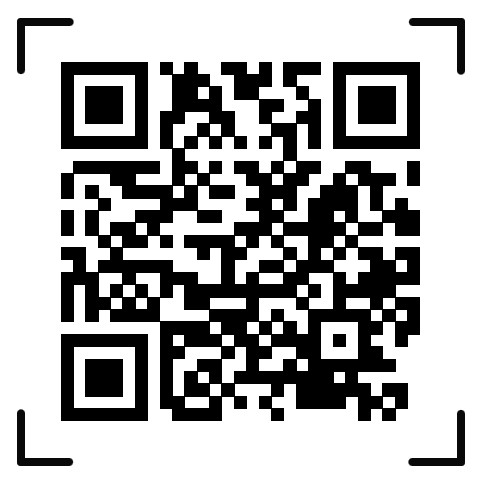
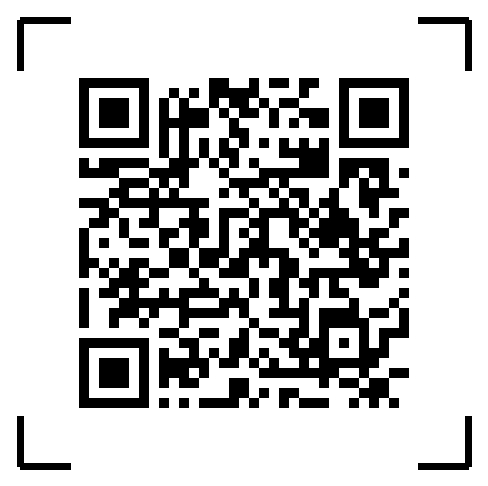
Update shared demo QR code URL

diff --git a/baking-passport-slides/index.html b/baking-passport-slides/index.html
@@ -92,7 +92,7 @@
               <button id="journey-qr-close" class="journey-qr-close" type="button" aria-label="關閉 QR Code">×</button>
               <h3 id="journey-qr-title">掃碼開啟體驗</h3>
               <p>用手機掃描 QR Code，試玩烘焙體驗護照。</p>
-              <img src="./assets/interaction_qr_code.jpg" alt="烘焙體驗護照的 QR Code" />
+              <img src="./assets/interaction_qr_code.jpg?v=cake-story-club-demo-1021" alt="烘焙體驗護照的 QR Code" />
             </div>
           </div>
         </section>
@@ -145,7 +145,7 @@
 
           <div class="ending-invitation">
             <h3>換你來玩玩看！</h3>
-            <img class="ending-qr" src="./assets/interaction_qr_code.jpg" alt="掃描以體驗烘焙體驗護照的 QR Code" />
+            <img class="ending-qr" src="./assets/interaction_qr_code.jpg?v=cake-story-club-demo-1021" alt="掃描以體驗烘焙體驗護照的 QR Code" />
           </div>
         </section>
       </div>

diff --git a/baking-passport-slides/README.md b/baking-passport-slides/README.md
@@ -31,5 +31,5 @@ python -m http.server 8000
 - P1 使用 `assets/cover-phone-frame-v3.png` 透明手機外框，並以 `assets/cover-home-screen.jpg`、`assets/cover-collection-screen.jpg` 兩張原始截圖填入螢幕，保留介面文字與圖案。
 - `assets/demo.mp4` 與 `assets/Flashcard_Demo.mp4` 是提供的兩支原始操作影片複本，簡報可離線播放。
 - `assets/demo-poster.png` 與 `assets/flashcard-poster.png` 是直接從上述原始影片擷取的預覽畫面，沒有重繪 Demo 介面。
-- `assets/photobooth-result.jpg` 與 `assets/interaction_qr_code.jpg` 是提供的拍貼成果與 QR Code 原檔複本，供 P2 彈窗及 P4 離線顯示。掃描 QR Code 開啟線上 Demo 時需網路連線。
+- `assets/photobooth-result.jpg` 是拍貼成果原檔；`assets/interaction_qr_code.jpg` 是 P2 彈窗與 P4 共用的 QR Code，指向 `https://cake-story-club-demo-1021.zippyspark.chatgpt.site/`。簡報可離線顯示 QR Code，掃描後開啟線上 Demo 需網路連線。
 - 中文與內文字型使用本機打包的 Noto Sans TC；P1 英文大標使用本機打包的 Barlow Condensed Black（授權條款見 `assets/BarlowCondensed-OFL.txt`），避免投影現場依賴線上字型。
